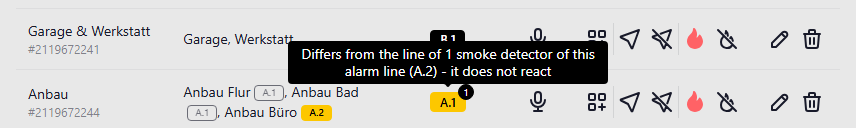
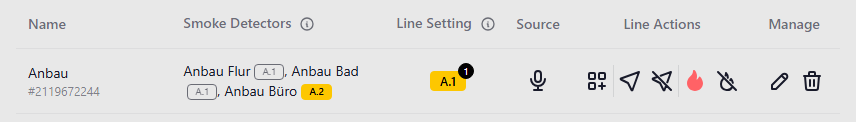
docs: line setting screenshot without the covering tooltip

diff --git a/docs/features/alarm-lines-management.md b/docs/features/alarm-lines-management.md
@@ -168,7 +168,7 @@ A radio module accepts a packet only if it carries both its alarm line ID and it
 
 A line setting set by hand or taken from a packet stays until it is changed in the edit dialog - also when the detectors tell another one. Whenever smoke detectors of the line are set to another line than the one used, the value turns yellow, its tooltip says how many detectors differ, and the detectors carry a yellow badge with their line. Select **Automatic** to follow the detectors again.
 
-![Line setting of a line whose detectors are set differently, with its tooltip](../assets/images/software/gg-gateway-alarm-lines-line-setting.png)
+![Line setting of a line whose detectors are set differently: yellow value with the number of differing detectors, badges at the detectors](../assets/images/software/gg-gateway-alarm-lines-line-setting.png)
 
 Before a line action is sent to such a line, its confirmation dialog names the detectors that will not react:
 
